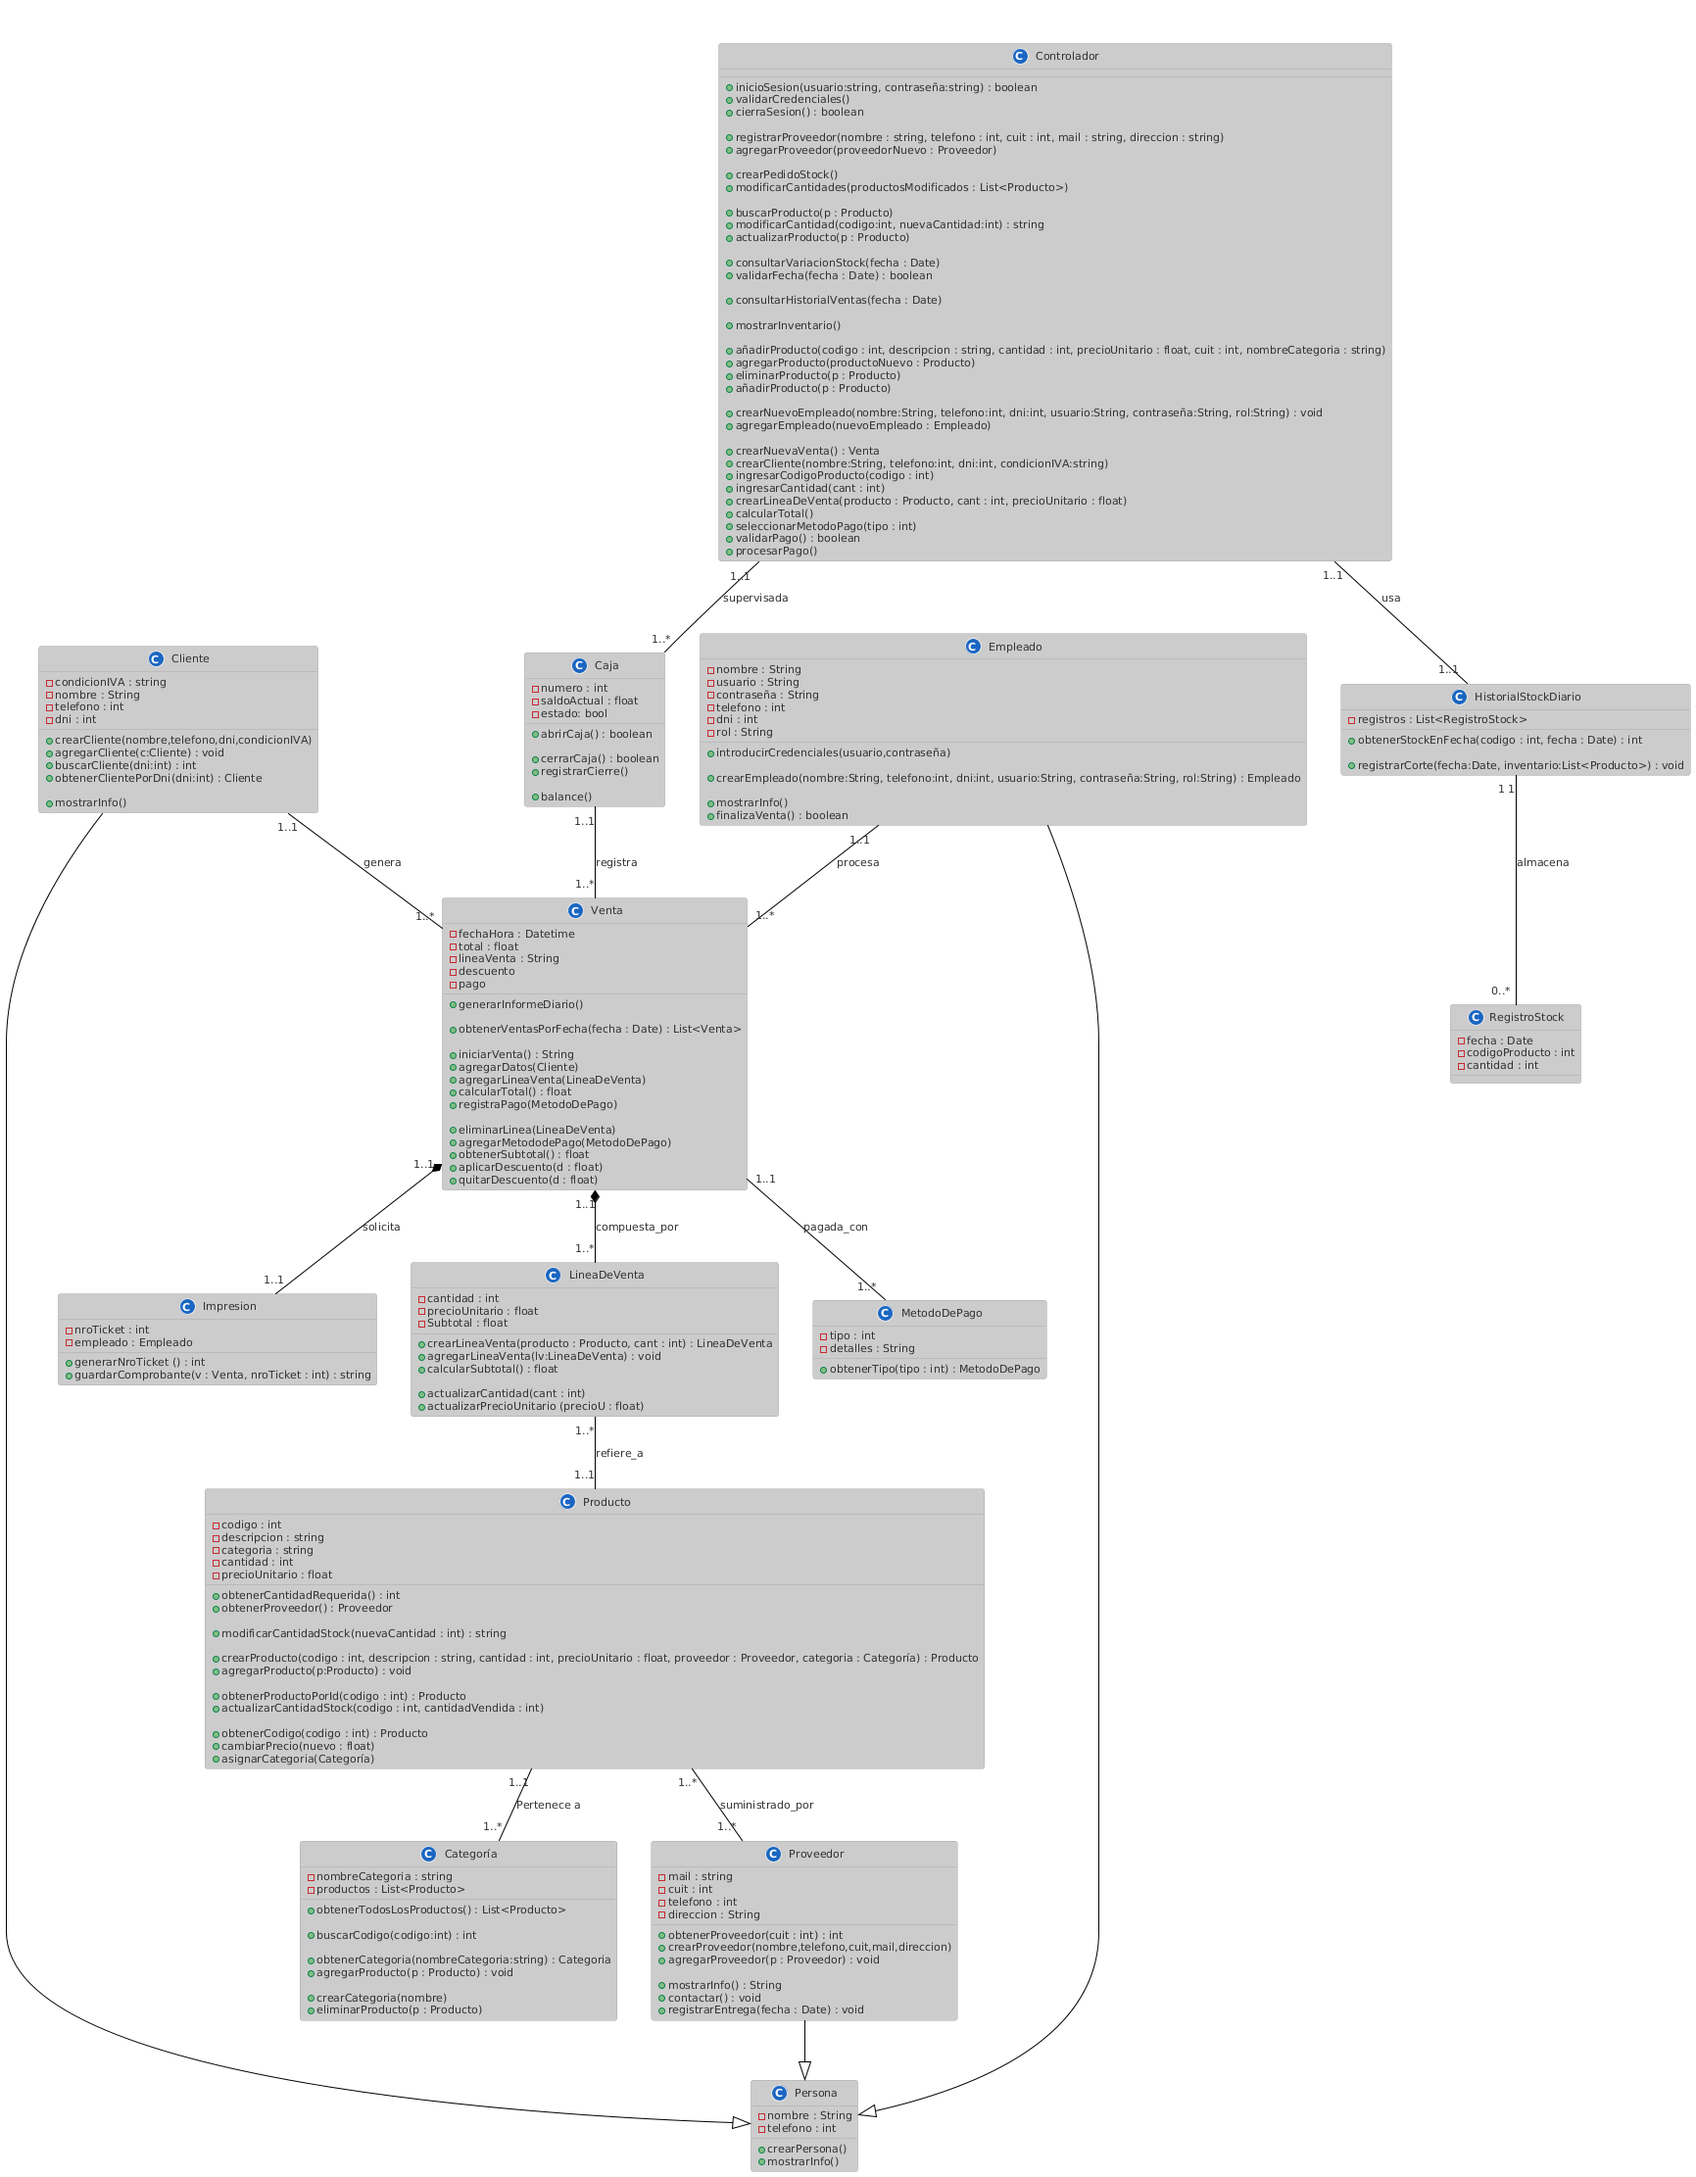
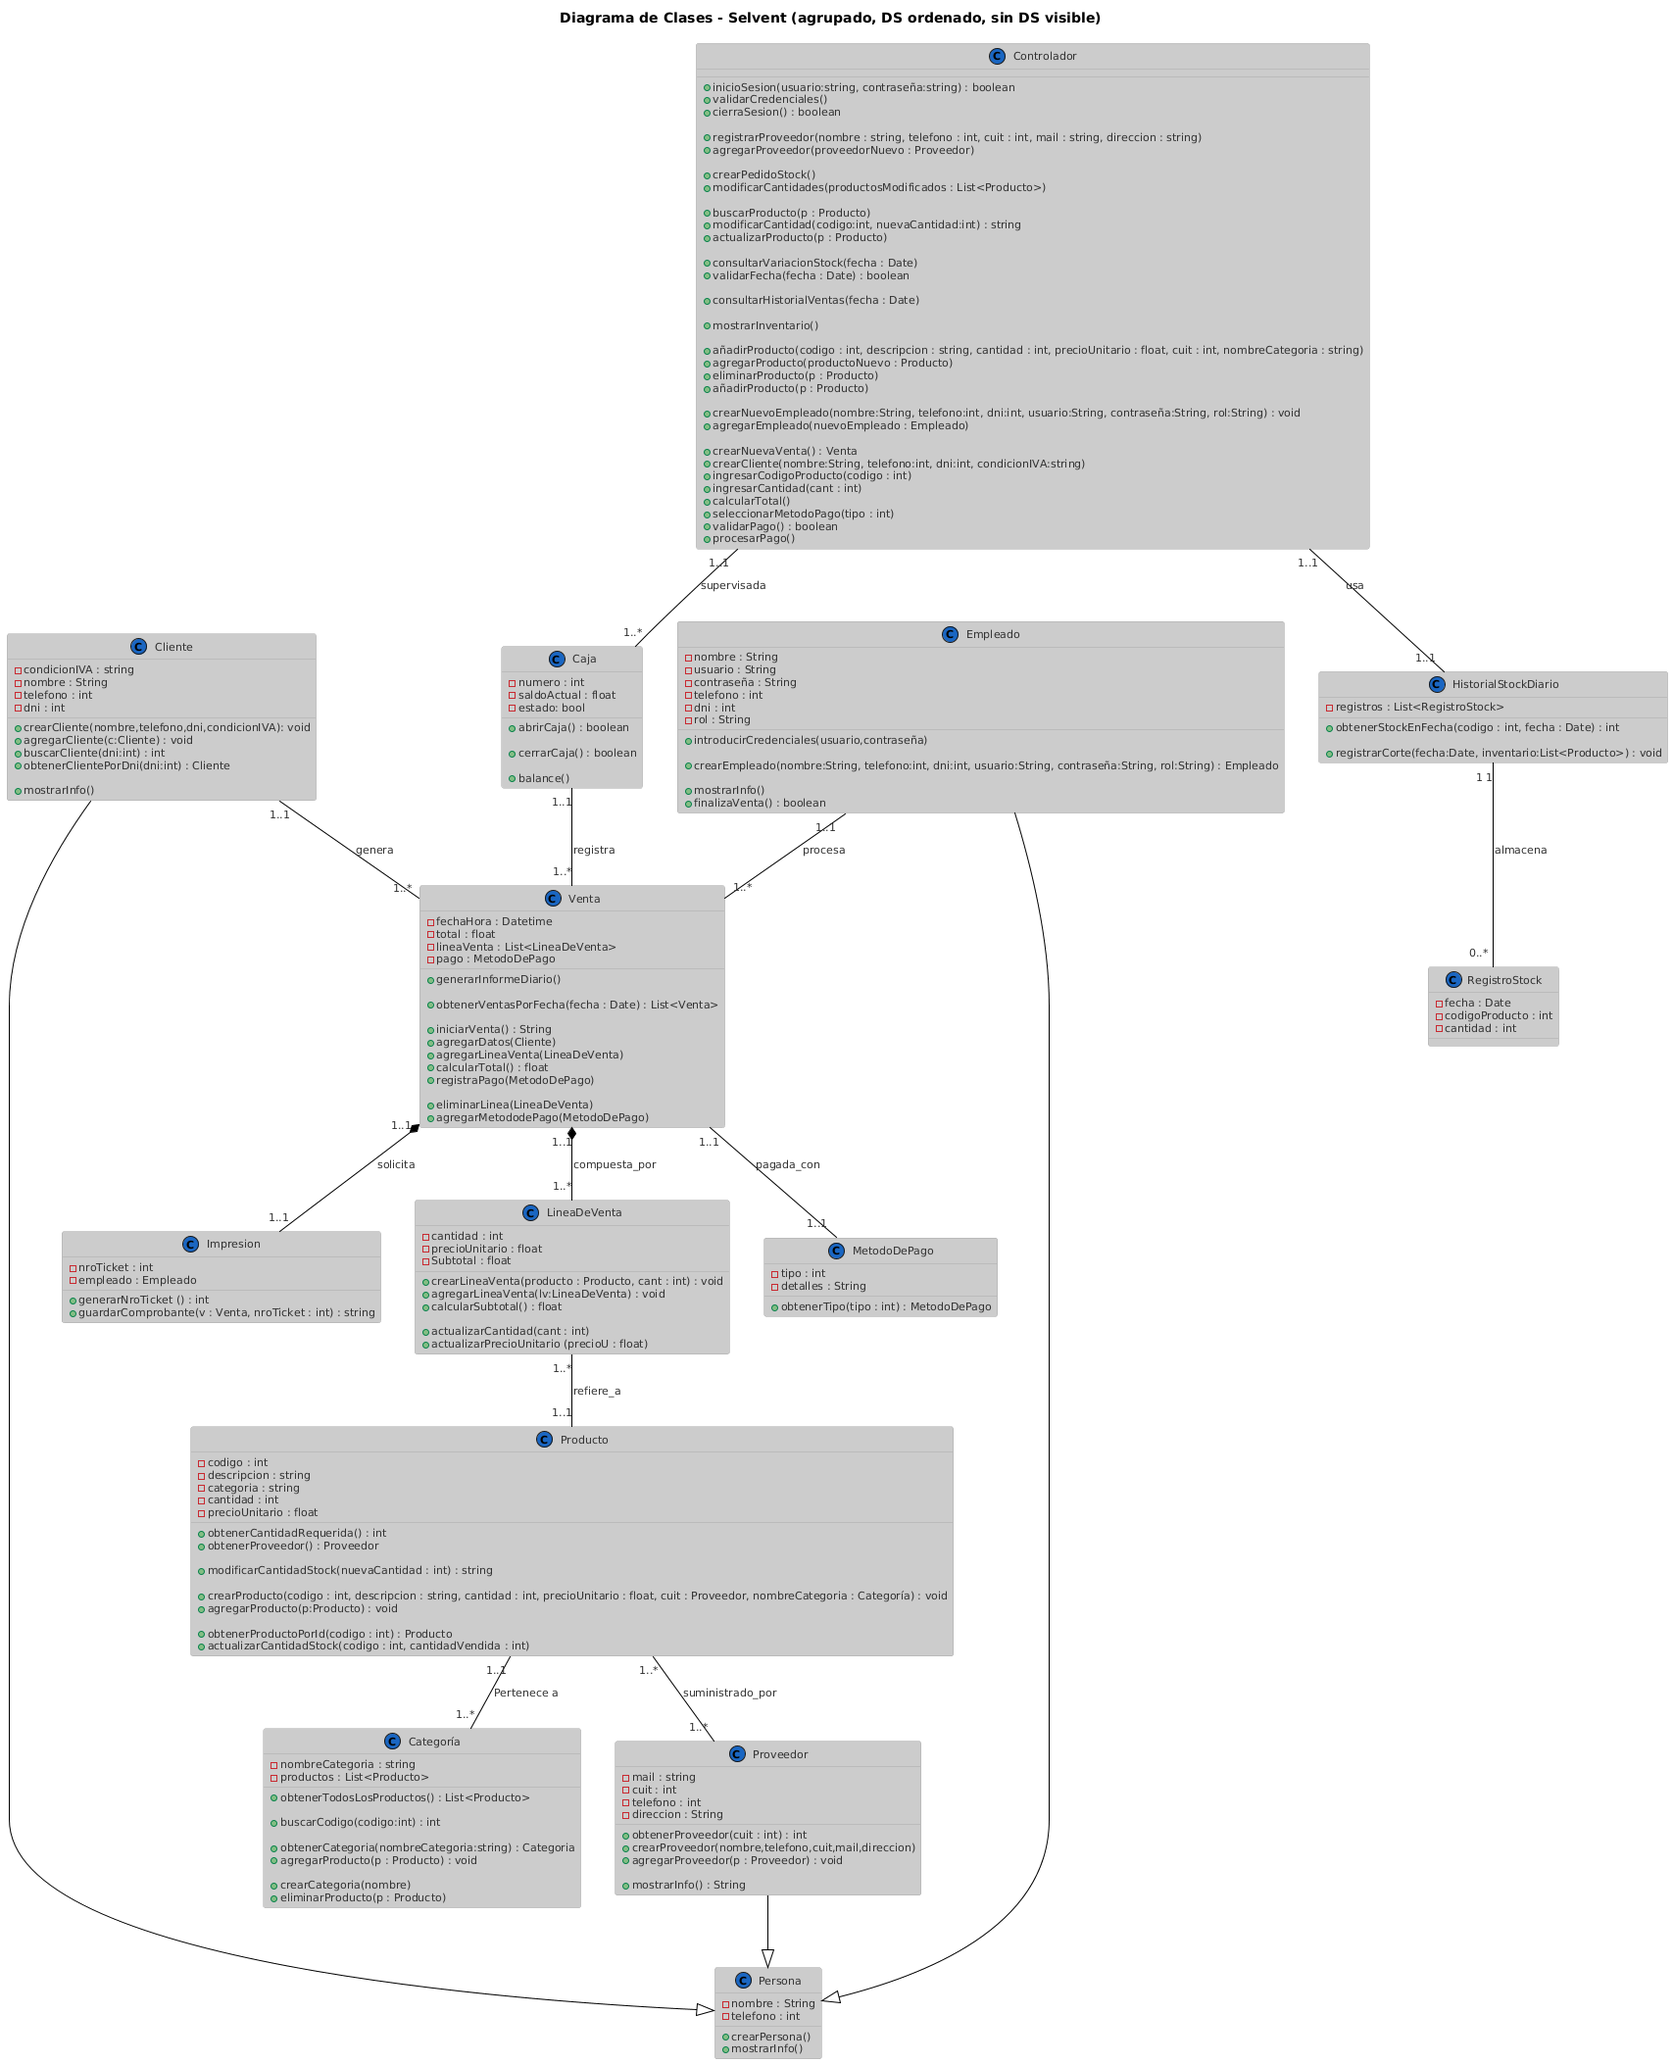
Actualizacion de requerimientos y clases
Correcion de detalles

diff --git a/02 - Requerimientos/Requerimientos.md b/02 - Requerimientos/Requerimientos.md
@@ -1,19 +1,19 @@
 # Proyecto Selvent
 ### Requerimientos 
-* El sistema debe registrar cada venta con: productos, cantidades, precios unitarios, total, fecha/hora y método(s) de 
-* Cada venta debe quedar asociada al empleado que la realizó.
-* Debe permitir múltiples métodos de pago por transacción (efectivo, tarjeta, billeteras virtuales y combinaciones).
-* Debe generar reportes financieros diarios con ingresos, egresos y ganancias netas.
-* Debe permitir consultar el historial de ventas filtrando por fecha.
-* Debe permitir agregar productos al carrito mediante el ingreso manual del código o búsqueda por nombre/categoría.
-* Debe manejar el stock de la mercadería disponible.
-* Cada producto debe estar registrado con código, cantidad existente, precio unitario, costo, descripción y categoría.
-* Los productos de las ventas concretadas se deben descontar automáticamente el stock.
-* Debe permitir consultar el inventario completo mostrando código, descripción, cantidad disponible, precio y proveedor.
-* Debe permitir consultar la variación del stock en una fecha específica, mostrando existencias actuales, existencias en la fecha consultada y la diferencia entre las fechas.
-* Debe permitir actualizar manualmente el stock de un producto.
-* Debe generar pedidos de reabastecimiento según la diferencia entre stock actual y cantidad mensual requerida.
-* Debe identificar productos con stock por debajo del mínimo requerido y marcarlos como “con faltante”.
+*El sistema debe registrar cada venta con: productos, cantidades, precios unitarios, total, fecha/hora y método de pago.
+*Cada venta debe quedar asociada al empleado que la realizó.
+*Debe generar reportes diarios de ventas e ingresos totales.
+*Debe permitir consultar el historial de ventas filtrando por fecha.
+*Debe permitir agregar productos al carrito mediante el ingreso manual del código o búsqueda por nombre/categoría.
+*Debe manejar el stock de la mercadería disponible.
+*Cada producto debe estar registrado con código, cantidad existente, precio unitario, descripción y categoría.
+*Los productos de las ventas concretadas se deben descontar automáticamente el stock.
+*Debe permitir consultar el inventario completo mostrando código, descripción, cantidad disponible, precio unitario y proveedor.
+*Debe permitir consultar la variación del stock en una fecha específica, mostrando existencias actuales, existencias en la fecha consultada y la diferencia entre las fechas.
+*Debe permitir actualizar manualmente el stock de un producto.
+*Debe permitir generar pedidos de stock para los productos cuyo nivel de existencias sea menor o igual al mínimo establecido.
+*Debe identificar productos con stock por debajo del mínimo requerido y marcarlos como “con faltante”.
+
 ### Requerimientos No funcionales
 * El sistema debe contar con una base de datos con todos los productos registrados.
 * La base de datos debe ser segura, confiable y escalable.

diff --git a/04 - Reglas_de_Negocio/Reglas_de_Negocio.md b/04 - Reglas_de_Negocio/Reglas_de_Negocio.md
@@ -1,4 +1,5 @@
-## Hechos 
+## Hechos
+
 * El usuario debe controlar la mercaderia disponible
 * Debe estar conectado a la parte de ventas
 * La mercadería debe estar declarada por un código, una cantidad existente, descripción, categoría y proveedor.
@@ -10,25 +11,28 @@
 * Cada apertura de caja queda asociada a un empleado
 
 ## Restricciones
+
 * Si se quiere agregar un producto nuevo, se debe completar toda la información obligatoria del mismo según su clasificación (código, descripción, cantidad, precio, proveedor y categoría).
 * El sistema no permite finalizar una venta si la cantidad vendida de algún producto supera el stock disponible.
 * El sistema no permite registrar ventas si la caja correspondiente se encuentra cerrada.
 * El sistema no permite finalizar una venta si no se registra al menos un método de pago válido y aceptado.
 
 ## Acciones disparadoras
+
 * Si es el primer dia del mes, debe generar un informe de las ventas del mes anterior.
 * Cuando el stock de un producto sea igual al límite establecido por el usuario, debe notificar mediante una alerta la cantidad existente o restante.
 * Al confirmar una venta, el sistema debe descontar del stock la cantidad vendida de cada producto, actualizar el saldo de la caja, generar y guardar el comprobante asociado a esa venta.
 * Cuando se registra una entrega de proveedor (reabastecimiento), el sistema debe actualizar el stock de los productos recibidos.
 
-## Cálculo 
-* El precio total de la venta será igual al precio unitario del producto, más el impuesto sobre el mismo, por el volumen de la compra. 
+## Cálculo
+
+* El precio total de la venta será igual al precio unitario del producto, más el impuesto sobre el mismo, por el volumen de la compra.
 * El calculo de las ganancia del negocio es el precio de venta al cliente menos el costo sobre precio de compra del producto.
 * El IVA del producto se calcula como el precio del producto por el porcentaje del iva correspondiente.
 * Cada producto que este dentro de la venta, debe descontarse la cantidad especificada en el stock.
 * Para consultas de variación de stock entre dos fechas se calcula como; variación = existencias en la fecha actual − existencias en la fecha consultada.
 
-## Inferencia 
+## Inferencia
+
 * Si el cliente ha comprado mas de 10 veces en el último mes, entonces es considerado cliente frecuente.
 * Si el stock actual de un producto es menor que la cantidad mensual requerida definida para ese producto, entonces el producto se considera con faltante y debe incluirse en el próximo pedido de reabastecimiento.
-

diff --git a/05 - Casos_de_uso/Caso_De_Uso_09_Registrar_producto_nuevo.md b/05 - Casos_de_uso/Caso_De_Uso_09_Registrar_producto_nuevo.md
@@ -1,4 +1,5 @@
 # Caso de uso: Registrar producto nuevo
+
 * Actores primarios: Empleado, Encargado
 * Actores secundarios: No tiene
 * Precondición: El usuario debe tener permisos.
@@ -10,26 +11,29 @@
 2. El sistema agrega el producto al listado de productos.
 
 ### Caminos alternativos
+
 2.a Algún campo obligatorio está vacío.  
 2.a.1 El sistema muestra: "Faltan completar campos obligatorios".  
 2.a.2 Vuelve al paso 1.
 
 2.b El código del producto ya existe.
-2.b.1 El sistema muestra: "El codigo del producto ingresado ya existe".  
+2.b.1 El sistema muestra: "El código del producto ingresado ya existe".  
 2.b.2 Vuelve al paso 1.
 
-2.a El proveedor no existe.  
-2.a.1 El sistema muestra: "El proveedor ingresado no existe".  
-2.a.2 Vuelve al paso 1.
+2.c El proveedor no existe.  
+2.c.1 El sistema muestra: "El proveedor ingresado no existe".  
+2.c.2 Vuelve al paso 1.
 
-2.a La categoría no existe.  
-2.a.1 El sistema muestra: "La categoría ingresada no existe".  
-2.a.2 Vuelve al paso 1.
+2.d La categoría no existe.  
+2.d.1 El sistema muestra: "La categoría ingresada no existe".  
+2.d.2 Vuelve al paso 1.
 
 ### Escenario de éxito
+
 * El usuario registró el producto correctamente.
 
 ### Escenario de fracaso
+
 * El usuario no pudo registrar el producto por campos incompletos.
 * El usuario no pudo registrar el producto por código repetido.
 * El usuario no pudo registrar el producto por proveedor inexistente.

diff --git a/05 - Casos_de_uso/Caso_De_Uso_04_Crear_pedido_de_stock.md b/05 - Casos_de_uso/Caso_De_Uso_04_Crear_pedido_de_stock.md
@@ -1,23 +1,27 @@
 # Caso de uso: Crear pedido de stock
+
 * Actores primarios: Empleado, Encargado
 * Actores secundarios: No tiene
-* Precondiciones: El usuario debe tener permisos para crear pedidos 
+* Precondiciones: El usuario debe tener permisos para crear pedidos
 * Postcondiciones: No tiene
 
 ### Camino básico:
 
 1. El usuario selecciona la opción “Crear pedido de stock”.
-2. El sistema obtiene todos los productos registrados, filtra y muestra aquellos con faltante (productos con cantidadActual <= 10).
+2. El sistema obtiene todos los productos registrados, filtra y muestra aquellos con faltante (productos con cantidad actual <= 10).
 3. El usuario modifica manualmente las cantidades a reponer por producto y confirma el pedido.
 4. El sistema muestra el detalle final del pedido con: producto, cantidad a reponer y proveedor.
 
 ### Caminos alternativos
+
 2.a No existen productos con faltante.
 2.a.1 El sistema muestra el mensaje: "No existen productos con faltante de stock. Puede ajustar manualmente si desea generar un pedido".
 2.a.2 El caso de uso continúa en el paso 3.
 
 ### Escenario de éxito
+
 * El usuario pudo generar el detalle del pedido de stock.
 
 ### Escenario de fracaso
+
 * No tiene.
